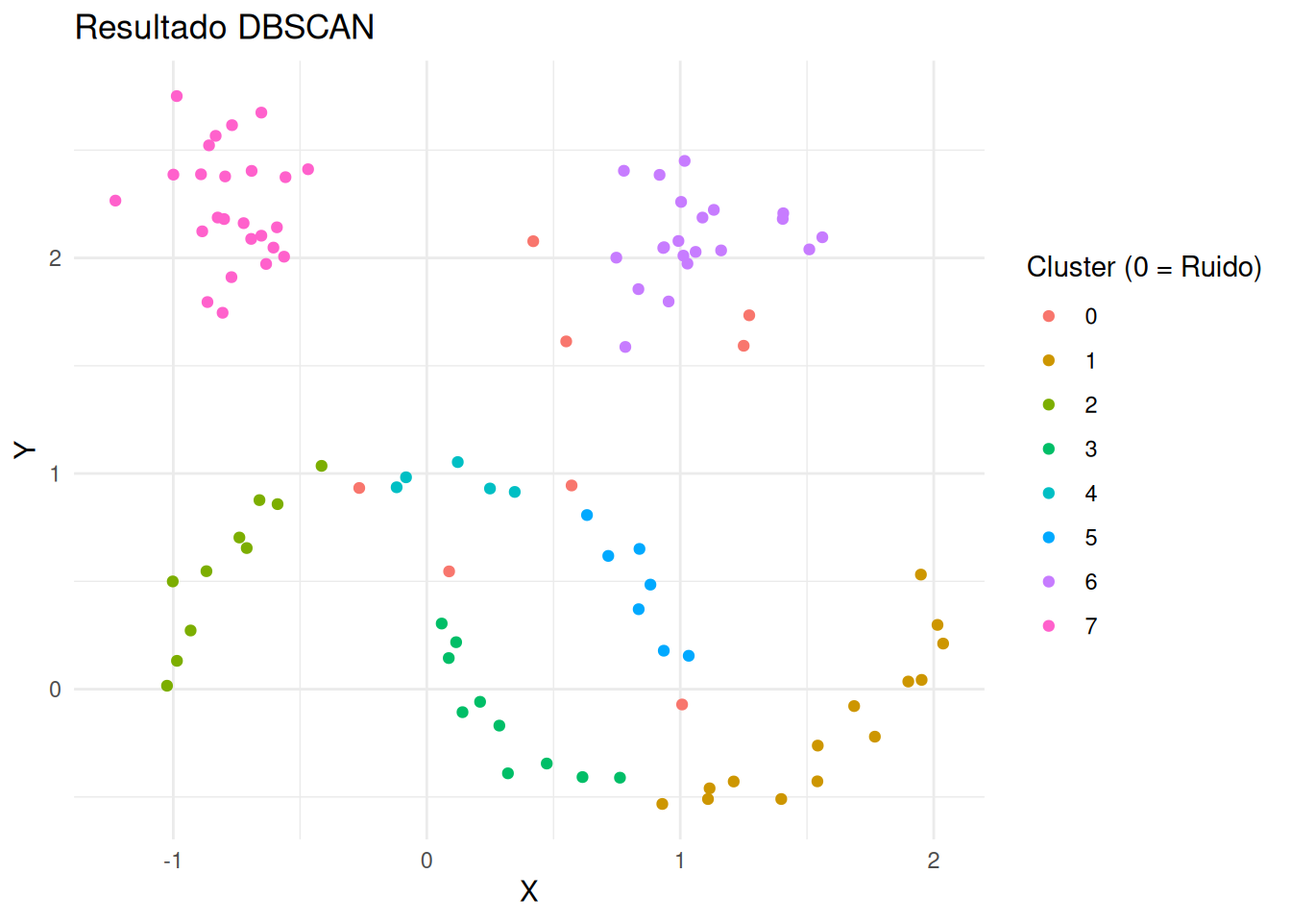
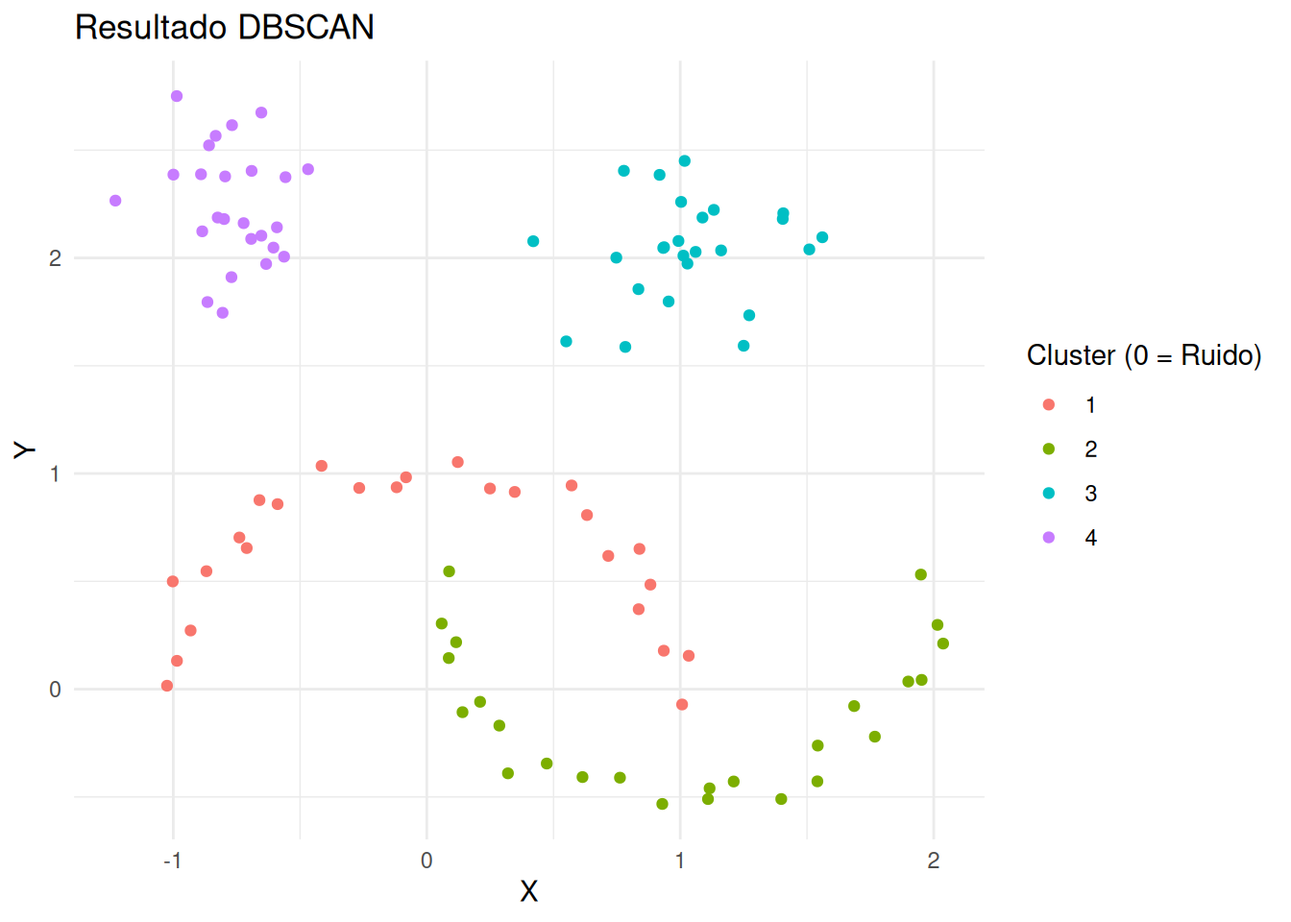
Built site for gh-pages

diff --git a/02-ml-no-supervisado.html b/02-ml-no-supervisado.html
@@ -20,6 +20,40 @@ ul.task-list li input[type="checkbox"] {
   margin: 0 0.8em 0.2em -1em; /* quarto-specific, see https://github.com/quarto-dev/quarto-cli/issues/4556 */ 
   vertical-align: middle;
 }
+/* CSS for syntax highlighting */
+pre > code.sourceCode { white-space: pre; position: relative; }
+pre > code.sourceCode > span { line-height: 1.25; }
+pre > code.sourceCode > span:empty { height: 1.2em; }
+.sourceCode { overflow: visible; }
+code.sourceCode > span { color: inherit; text-decoration: inherit; }
+div.sourceCode { margin: 1em 0; }
+pre.sourceCode { margin: 0; }
+@media screen {
+div.sourceCode { overflow: auto; }
+}
+@media print {
+pre > code.sourceCode { white-space: pre-wrap; }
+pre > code.sourceCode > span { display: inline-block; text-indent: -5em; padding-left: 5em; }
+}
+pre.numberSource code
+  { counter-reset: source-line 0; }
+pre.numberSource code > span
+  { position: relative; left: -4em; counter-increment: source-line; }
+pre.numberSource code > span > a:first-child::before
+  { content: counter(source-line);
+    position: relative; left: -1em; text-align: right; vertical-align: baseline;
+    border: none; display: inline-block;
+    -webkit-touch-callout: none; -webkit-user-select: none;
+    -khtml-user-select: none; -moz-user-select: none;
+    -ms-user-select: none; user-select: none;
+    padding: 0 4px; width: 4em;
+  }
+pre.numberSource { margin-left: 3em;  padding-left: 4px; }
+div.sourceCode
+  {   }
+@media screen {
+pre > code.sourceCode > span > a:first-child::before { text-decoration: underline; }
+}
 /* CSS for citations */
 div.csl-bib-body { }
 div.csl-entry {
@@ -402,7 +436,7 @@ Figura&nbsp;2.2: Proceso iterativo para definir los agrupamientos en el algoritm
 <p><span id="eq-k-means-obj"><span class="math display">\[
 min_{C_1,\dots,C_k} \left\{ \sum_{j=1}^k W(C_j) \right\}
 \tag{2.1}\]</span></span></p>
-<p>En otras palabras, se pretende minimizar la suma en todos los grupos de la variación registrada dentro de cada grupo. Si utilizamos la distancia Euclídea, entonces W(C_k) se convierte en la función conocida como Within-Cluster Sum of Squares (WCSS).</p>
+<p>En otras palabras, se pretende minimizar la suma en todos los grupos de la variación registrada dentro de cada grupo. Si utilizamos la distancia Euclídea, entonces W(C_k) se convierte en la función conocida como <em>Within-Cluster Sum of Squares</em> (WCSS).</p>
 <div class="callout callout-style-default callout-caution callout-titled">
 <div class="callout-header d-flex align-content-center">
 <div class="callout-icon-container">
@@ -413,7 +447,7 @@ Otras métricas de distancia en <em>k</em>-means
 </div>
 </div>
 <div class="callout-body-container callout-body">
-<p>Debemos tener mucho cuidado con la utilzación del algoritmo <em>k</em>-means si queremos emplear otras funciones métricas de distancia distintas de la distancia Euclídea (norma <span class="math inline">\(L_2\)</span>). La mayoría de paquetes y bibliotecas software <strong>asumen por defecto</strong> que se va a utilizar dicha distancia, ya que la función objetivo que se plantea en el problema de optimización que debe resolver es, precisamente, minimizar el WCSS. Como acabamos de ver arriba, este criterio *sólo es valido para la distancia Euclídea**. Existen algunas implementaciones del algoritmo con otras funciones de distancia, pero no son para nada habituales.</p>
+<p>Debemos tener mucho cuidado con la utilzación del algoritmo <em>k</em>-means si queremos emplear otras funciones métricas de distancia distintas de la distancia Euclídea (norma <span class="math inline">\(L_2\)</span>). La mayoría de paquetes y bibliotecas software <strong>asumen por defecto</strong> que se va a utilizar dicha distancia, ya que la función objetivo que se plantea en el problema de optimización que debe resolver es, precisamente, minimizar el WCSS. Como acabamos de ver arriba, este criterio <em>sólo es valido para la distancia Euclídea</em>. Existen algunas implementaciones del algoritmo con otras funciones de distancia, pero no son para nada habituales.</p>
 </div>
 </div>
 </section>
@@ -489,14 +523,92 @@ Figura&nbsp;2.5: Tres dendogramas que muestran diferentes cortes a distinto nive
 </section>
 <section id="medidas-de-evaluación-en-clustering" class="level3" data-number="2.1.3">
 <h3 data-number="2.1.3" class="anchored" data-anchor-id="medidas-de-evaluación-en-clustering"><span class="header-section-number">2.1.3</span> Medidas de evaluación en clustering</h3>
-<section id="elbow-method" class="level4" data-number="2.1.3.1">
-<h4 data-number="2.1.3.1" class="anchored" data-anchor-id="elbow-method"><span class="header-section-number">2.1.3.1</span> <strong>Elbow method</strong></h4>
+<p>La mayoría de las técnicas de evaluación de <em>clusering</em> intentan cuantificar la <strong>cohesión</strong> de los grupos (es decir, cómo de cercanos o similares son los elementos dentro del grupo), así como la <strong>separación entre grupos</strong> (es decir, cómo de lejos están los clústeres entre sí). Muchas de estas medidas se pueden aplicar a ambos tipos de algoritmos, tanto jerárquicos como no jerárquicos.</p>
+<p>El paquete <code>factoextra</code> contiene varias funciones de utilidad para evaluación de resultados de <em>clustering</em> e interpretación gráfica de dicha evaluación. En particular, la función <code>fviz_nbclust</code> permite determinar y visualizar el número óptimo de grupos, en función de varias posibles métricas. A continuación, presentamos varias métricas <em>intrínsecas</em>, que miden la calidad geométrica de una partición dada, independientemente de cómo se haya generado esa partición (ya sea de <em>k</em>-means o de un corte en un dendrograma).</p>
+<p>Preparamos unos datos para los ejemplos, escalando primero los valores de las variables para todos esten en rangos comparables</p>
+<div class="cell">
+<div class="sourceCode cell-code" id="cb1"><pre class="sourceCode r code-with-copy"><code class="sourceCode r"><span id="cb1-1"><a href="#cb1-1" aria-hidden="true" tabindex="-1"></a><span class="fu">library</span>(factoextra)</span>
+<span id="cb1-2"><a href="#cb1-2" aria-hidden="true" tabindex="-1"></a><span class="fu">library</span>(cluster)</span>
+<span id="cb1-3"><a href="#cb1-3" aria-hidden="true" tabindex="-1"></a>df <span class="ot">&lt;-</span> <span class="fu">scale</span>(USArrests)</span></code><button title="Copiar al portapapeles" class="code-copy-button"><i class="bi"></i></button></pre></div>
+</div>
+<section id="la-silueta-silhouette" class="level4" data-number="2.1.3.1">
+<h4 data-number="2.1.3.1" class="anchored" data-anchor-id="la-silueta-silhouette"><span class="header-section-number">2.1.3.1</span> La silueta (<em>silhouette</em>)</h4>
+<p>La <strong>silueta</strong> (en inglés <em>silhouette</em>) cuantifica lo bien que se ajusta cada elemento a su propio cluster, si lo comparamos con el vecino. Al calcular la silueta promedio de todas las agrupaciones de elemtnos, podemos determinar si la solución de <em>clustering</em> es buena en conjunto, siendo mejores los valores más elevados. Si comparamos la silueta promedio obtenida para diferentes valores de <code>k</code>, podemos ver de todos ellos el que obtiene el valor más elevado.</p>
+<p>La métrica de la silueta es <strong>aplicable a ambos tipos de algoritmos de clustering</strong>, tanto jerárquicos como no jerárquicos. Veamos un ejemplo con varias configuraciones del parámetro <code>k</code> usando <em>k</em>-means sobre el conjunto de datos <code>USArrests</code>.</p>
+<div class="cell">
+<div class="sourceCode cell-code" id="cb2"><pre class="sourceCode r code-with-copy"><code class="sourceCode r"><span id="cb2-1"><a href="#cb2-1" aria-hidden="true" tabindex="-1"></a><span class="fu">fviz_nbclust</span>(df, kmeans, <span class="at">method =</span> <span class="st">"silhouette"</span>)</span></code><button title="Copiar al portapapeles" class="code-copy-button"><i class="bi"></i></button></pre></div>
+<div class="cell-output-display">
+<div id="fig-example-silhouette" class="quarto-float quarto-figure quarto-figure-center anchored">
+<figure class="quarto-float quarto-float-fig figure">
+<div aria-describedby="fig-example-silhouette-caption-0ceaefa1-69ba-4598-a22c-09a6ac19f8ca">
+<img src="02-ml-no-supervisado_files/figure-html/fig-example-silhouette-1.png" class="img-fluid figure-img" width="672">
+</div>
+<figcaption class="quarto-float-caption-bottom quarto-float-caption quarto-float-fig" id="fig-example-silhouette-caption-0ceaefa1-69ba-4598-a22c-09a6ac19f8ca">
+Figura&nbsp;2.6: Comparativa de los valores de silueta promedio para varias configuraciones del parámetro <code>k</code> en clustering con <em>k</em>-means.
+</figcaption>
+</figure>
+</div>
+</div>
+</div>
+<div class="cell">
+<div class="sourceCode cell-code" id="cb3"><pre class="sourceCode r code-with-copy"><code class="sourceCode r"><span id="cb3-1"><a href="#cb3-1" aria-hidden="true" tabindex="-1"></a>kmeans_4 <span class="ot">&lt;-</span> <span class="fu">kmeans</span>(df, <span class="at">centers=</span><span class="dv">4</span>, <span class="at">nstart =</span> <span class="dv">25</span>)</span>
+<span id="cb3-2"><a href="#cb3-2" aria-hidden="true" tabindex="-1"></a>silueta <span class="ot">&lt;-</span> <span class="fu">silhouette</span>(kmeans_4<span class="sc">$</span>cluster, <span class="fu">dist</span>(df))</span>
+<span id="cb3-3"><a href="#cb3-3" aria-hidden="true" tabindex="-1"></a><span class="fu">fviz_silhouette</span>(silueta, <span class="at">palette =</span> <span class="st">"jco"</span>, <span class="at">print.summary =</span> <span class="cn">FALSE</span>)</span></code><button title="Copiar al portapapeles" class="code-copy-button"><i class="bi"></i></button></pre></div>
+<div class="cell-output-display">
+<div id="fig-vis-silhouette" class="quarto-float quarto-figure quarto-figure-center anchored">
+<figure class="quarto-float quarto-float-fig figure">
+<div aria-describedby="fig-vis-silhouette-caption-0ceaefa1-69ba-4598-a22c-09a6ac19f8ca">
+<img src="02-ml-no-supervisado_files/figure-html/fig-vis-silhouette-1.png" class="img-fluid figure-img" width="672">
+</div>
+<figcaption class="quarto-float-caption-bottom quarto-float-caption quarto-float-fig" id="fig-vis-silhouette-caption-0ceaefa1-69ba-4598-a22c-09a6ac19f8ca">
+Figura&nbsp;2.7: Visualización de los valores de silueta para cada elemento agrupado. Los valores negativos (barras en sentido descendente) indican puntos mal agrupados.
+</figcaption>
+</figure>
+</div>
+</div>
+</div>
+<p>En la sección <a href="08-apps.html#sec-pam-case-study" class="quarto-xref"><span>Sección 8.1.2</span></a> veremos un ejemplo práctico con código para inspeccionar los valores reportados por la silueta como mal clasificados. La línea roja en el gráfico marca el valor promedio de silueta de todos el conjunto de agrupamientos.</p>
 </section>
-<section id="la-silueta-silhouette" class="level4" data-number="2.1.3.2">
-<h4 data-number="2.1.3.2" class="anchored" data-anchor-id="la-silueta-silhouette"><span class="header-section-number">2.1.3.2</span> La silueta (<em>silhouette</em>)</h4>
+<section id="elbow-method" class="level4" data-number="2.1.3.2">
+<h4 data-number="2.1.3.2" class="anchored" data-anchor-id="elbow-method"><span class="header-section-number">2.1.3.2</span> <em>Elbow method</em></h4>
+<p>Se trata de un método directo para evaluar cuál podría ser el número de grupos <span class="math inline">\(k\)</span> más adecuado para el problema de agrupamiento a resolver. En el caso de algoritmos partitivos, este valor es un parámetro de configuración que se fija al inicio del problema, por lo que podemos probar con varias opciones y comparar los resultados para la función de coste que determina el resultado. Sólo se suele usar con este tipo de algoritmos, ya que para los jerárquicos se prefieren otros métodos de evaluación.</p>
+<p>En la <a href="#fig-example-elbow" class="quarto-xref">Figura&nbsp;<span>2.8</span></a> vemos un ejemplo comparando diferentes valores de la métrica <em>WCSS</em> para varias configuraciones del parámetro <code>k</code> usando <em>k</em>-means sobre el conjunto de datos <code>USArrests</code>.</p>
+<div class="cell">
+<div class="sourceCode cell-code" id="cb4"><pre class="sourceCode r code-with-copy"><code class="sourceCode r"><span id="cb4-1"><a href="#cb4-1" aria-hidden="true" tabindex="-1"></a><span class="fu">fviz_nbclust</span>(df, kmeans, <span class="at">method =</span> <span class="st">"wss"</span>) <span class="sc">+</span></span>
+<span id="cb4-2"><a href="#cb4-2" aria-hidden="true" tabindex="-1"></a>   <span class="fu">geom_vline</span>(<span class="at">xintercept =</span> <span class="dv">4</span>, <span class="at">linetype =</span> <span class="dv">2</span>)</span></code><button title="Copiar al portapapeles" class="code-copy-button"><i class="bi"></i></button></pre></div>
+<div class="cell-output-display">
+<div id="fig-example-elbow" class="quarto-float quarto-figure quarto-figure-center anchored">
+<figure class="quarto-float quarto-float-fig figure">
+<div aria-describedby="fig-example-elbow-caption-0ceaefa1-69ba-4598-a22c-09a6ac19f8ca">
+<img src="02-ml-no-supervisado_files/figure-html/fig-example-elbow-1.png" class="img-fluid figure-img" width="672">
+</div>
+<figcaption class="quarto-float-caption-bottom quarto-float-caption quarto-float-fig" id="fig-example-elbow-caption-0ceaefa1-69ba-4598-a22c-09a6ac19f8ca">
+Figura&nbsp;2.8: Ejemplo de un gráfico que compara los resultados del WCSS para varios valores del parámetro de configuración <code>k</code> en <em>k</em>-means.
+</figcaption>
+</figure>
+</div>
+</div>
+</div>
 </section>
 <section id="la-brecha-gap" class="level4" data-number="2.1.3.3">
 <h4 data-number="2.1.3.3" class="anchored" data-anchor-id="la-brecha-gap"><span class="header-section-number">2.1.3.3</span> La brecha (<em>gap</em>)</h4>
+<p>Esta métrica compara la WCSS observada con la esperada de un conjunto de datos generados sintéticamente de forma aleatoria. En este caso, también se utiliza con algoritmos partitivos (y para distancia Euclídea). El mejor valor de <code>k</code> es el que maximiza la métrica de <em>gap</em>.</p>
+<div class="cell">
+<div class="sourceCode cell-code" id="cb5"><pre class="sourceCode r code-with-copy"><code class="sourceCode r"><span id="cb5-1"><a href="#cb5-1" aria-hidden="true" tabindex="-1"></a><span class="fu">fviz_nbclust</span>(df, kmeans, <span class="at">method =</span> <span class="st">"gap"</span>) <span class="sc">+</span></span>
+<span id="cb5-2"><a href="#cb5-2" aria-hidden="true" tabindex="-1"></a>   <span class="fu">geom_vline</span>(<span class="at">xintercept =</span> <span class="dv">4</span>, <span class="at">linetype =</span> <span class="dv">2</span>)</span></code><button title="Copiar al portapapeles" class="code-copy-button"><i class="bi"></i></button></pre></div>
+<div class="cell-output-display">
+<div id="fig-example-gap" class="quarto-float quarto-figure quarto-figure-center anchored">
+<figure class="quarto-float quarto-float-fig figure">
+<div aria-describedby="fig-example-gap-caption-0ceaefa1-69ba-4598-a22c-09a6ac19f8ca">
+<img src="02-ml-no-supervisado_files/figure-html/fig-example-gap-1.png" class="img-fluid figure-img" width="672">
+</div>
+<figcaption class="quarto-float-caption-bottom quarto-float-caption quarto-float-fig" id="fig-example-gap-caption-0ceaefa1-69ba-4598-a22c-09a6ac19f8ca">
+Figura&nbsp;2.9: Ejemplo de un gráfico comparativo de los valores de <em>gap</em> obtenidos para diferentes valores del parámetro de configuración <code>k</code> con el algoritmo <em>k</em>-means.
+</figcaption>
+</figure>
+</div>
+</div>
+</div>
 </section>
 </section>
 </section>
@@ -504,9 +616,51 @@ Figura&nbsp;2.5: Tres dendogramas que muestran diferentes cortes a distinto nive
 <h2 data-number="2.2" class="anchored" data-anchor-id="reducción-de-la-dimensionalidad"><span class="header-section-number">2.2</span> Reducción de la dimensionalidad</h2>
 <section id="análisis-de-componentes-principales-pca" class="level3" data-number="2.2.1">
 <h3 data-number="2.2.1" class="anchored" data-anchor-id="análisis-de-componentes-principales-pca"><span class="header-section-number">2.2.1</span> Análisis de componentes principales (PCA)</h3>
+<p>El Análisis de Componentes Principales (PCA por sus siglas en inglés) se refiere al proceso por el cuál computamos las <strong>componentes principales</strong> del espacio de representación de nuestros datos y su posterior utilización para comprender mejor los patrones e información que contiene el <em>dataset</em>. Las <em>componentes principales</em> son las direcciones en el espacio de descripción de los datos a lo largo de las cuales los elementos del dataset tienen <em>alta variabilidad</em>.</p>
+<p>Se trata de una técnica de aprendizaje máquina no supervisado, puesto que sólo involucra un conjunto de variables descriptivas de los datos, <span class="math inline">\(\{x_1, x_2,\dots, x_d \}\)</span>, y ninguna variable de salida <span class="citation" data-cites="james2021">(<a href="references.html#ref-james2021" role="doc-biblioref">James, 2021</a>)</span>. Además de para el análisis, se puede usar como herramienta de visualización (permitiendo representar los elementos en un espacio bidimensional o, al menos, de menos dimensiones que el original), así como también para imputación de datos <span class="citation" data-cites="james2021">(<a href="references.html#ref-james2021" role="doc-biblioref">James, 2021</a>)</span>.</p>
+<p>La idea intuitiva detrás del PCA es que, si bien los datos están originalmente representados en un espacio con <span class="math inline">\(d\)</span> dimensiones, no todas ellas contribuyen de igual forma a la descripción de los datos. En otras palabras, no todas ellas son <em>“interesantes”</em>, donde la medida de interés radica en cuánto varían las observaciones a lo largo de cada dimensión. Cada una de las direcciones o <em>componentes</em> principales halladas mediante el PCA es una combinación lineal de las <span class="math inline">\(d\)</span> características descriptivas, cada una de ellas contribuyendo con un cierto peso (<em>loading</em>). Así, la primera componente principal viene dada por la combinación lineal normalizada de las variables que tiene la variabilidad más alta:</p>
+<p><span id="eq-pca-z1"><span class="math display">\[
+Z_1 = \phi_{11}X_1 + \phi_{21}X_2+\dots+\phi_{d1}X_d
+\tag{2.2}\]</span></span></p>
+<p>Que sea normalizada implica que <span class="math inline">\(\sum_{j=1}^p \phi_{j1}^2 = 1\)</span>. Los pesos o <em>loadings</em> son, precisamente, el conjunto de coeficientes <span class="math inline">\(\phi_{11}, \phi_{21},\dots,\phi_{d1}\)</span>. Numéricamente, el cálculo de los pesos se resuelve mediante técnicas de optimización <span class="citation" data-cites="james2021">(<a href="references.html#ref-james2021" role="doc-biblioref">James, 2021</a>)</span>. Después, se repite el proceso para obtener la segunda componente principal, que será la que recoja la mayor variabilidad de todas las combinaciones lineales que <strong>estén incorreladas</strong> con <span class="math inline">\(Z_1\)</span>. Así, cada componente principal debe ser <em>ortogonal</em> a todas las anteriores (esto es consecuencia de que todas estén incorreladas entre sí).</p>
+<p>La <a href="#fig-pca2comp-usarrests" class="quarto-xref">Figura&nbsp;<span>2.10</span></a> muestra las dos primeras componentes principales calculadas sobre el dataset <code>USArrests</code>. En la <a href="06-reduccion-dim.html#sec-pca-usarrests" class="quarto-xref"><span>Sección 6.1</span></a> veremos un ejemplo práctico, con codigo en R, de cómo calcular un PCA sobre este conjunto de datos.</p>
+<div id="fig-pca2comp-usarrests" class="quarto-float quarto-figure quarto-figure-center anchored">
+<figure class="quarto-float quarto-float-fig figure">
+<div aria-describedby="fig-pca2comp-usarrests-caption-0ceaefa1-69ba-4598-a22c-09a6ac19f8ca">
+<img src="img/PCA-2comp-USArrests.png" class="img-fluid figure-img" style="width:95.0%">
+</div>
+<figcaption class="quarto-float-caption-bottom quarto-float-caption quarto-float-fig" id="fig-pca2comp-usarrests-caption-0ceaefa1-69ba-4598-a22c-09a6ac19f8ca">
+Figura&nbsp;2.10: Representación gráfica de las dos primeras componentes principales calculadas sobre el conjunto de datos <code>USArrests</code>. Fuente: Figura 12.1 de <span class="citation" data-cites="james2021">(<a href="references.html#ref-james2021" role="doc-biblioref">James, 2021</a>)</span>.
+</figcaption>
+</figure>
+</div>
 </section>
 <section id="t-distributed-stochastic-neighbor-embedding-t-sne" class="level3" data-number="2.2.2">
 <h3 data-number="2.2.2" class="anchored" data-anchor-id="t-distributed-stochastic-neighbor-embedding-t-sne"><span class="header-section-number">2.2.2</span> t-distributed Stochastic Neighbor Embedding (t-SNE)</h3>
+<p>El algoritmo t-SNE (<em>t-Distributed Stochastic Neighbor Embedding</em>) es una técnica de <strong>reducción de dimensionalidad no lineal</strong> muy popular, utilizada principalmente para la visualización de conjuntos de datos de alta dimensión en un espacio de representación en 2D o 3D. Su objetivo principal es preservar la estructura local de los datos.</p>
+<p>Sus principales características son:</p>
+<ul>
+<li><p>Estrategia para preservar la estructura local de los datos: t-SNE se centra en preservar las distancias pequeñas (puntos cercanos en el espacio original) en el espacio de baja dimensión. Esto significa que los puntos que estaban cerca en el <em>dataset</em> original deben seguir estando cerca en la gráfica 2D.</p></li>
+<li><p>Distribuciones de probabilidad: el algoritmo convierte las distancias Euclídeas en el espacio de alta dimensión en probabilidades condicionales que representan la similitud.</p>
+<ul>
+<li><p>En el espacio original (alta dimensión), usa una distribución Gaussiana para medir la similitud.</p></li>
+<li><p>En el espacio de destino (baja dimensión), usa la distribución t-Student (con un grado de libertad, de ahí la “t” en el nombre), que tiene colas más pesadas en sus extremos. Esto mitiga el problema del <em>crowding</em> (agolpamiento de puntos).</p></li>
+</ul></li>
+<li><p>Técnica no lineal: a diferencia del PCA (que solo encuentra proyecciones lineales), t-SNE puede capturar relaciones complejas y no lineales en los datos.</p></li>
+<li><p>Uso de un parámetro de <strong>perplejidad</strong> (<em>perplexity</em>): Este es el hiperparámetro más crítico que hay que configurar para que funcione el algoritmo. Se puede interpretar como una medida del número efectivo de vecinos que t-SNE considera al agrupar cada punto.</p>
+<ul>
+<li><p>Controla el equilibrio entre el enfoque local y global.</p></li>
+<li><p>Un valor de perplejidad incorrecto puede generar visualizaciones engañosas.</p></li>
+</ul></li>
+</ul>
+<p>t-SNE es una técnica sobresaliente para generar visualizaciones donde los clústeres naturales de los datos se separan visualmente en la gráfica 2D. Como hemos visto, puede capturar relaciones no lineales en los datos, superando a PCA en ese aspecto (está restringido a relaciones lineales). Además, al emplear la distribución t-Student en el espacio de menor dimensionalidad, favorece que los agrupamientos estén más separados entre sí y aclara el aspecto del gráfico. Por último, la interpretación visual que ofrece es muy directa: si los puntos están cercanos entre sí son similares, si están lejos entre sí son más diferentes.</p>
+<p>Sin embargo, su aplicación trae consigo varias limitaciones:</p>
+<ul>
+<li>En conjuntos de datos muy grandes (<span class="math inline">\(n &gt; 10K\)</span>) requiere gran cantidad de memoria, ya que su complejidad es <span class="math inline">\(O(N^2)\)</span>.</li>
+<li>El resultado gráfico obtenido es muy sensible al valor del parámetro <em>perplexity</em>. Pequeñas alteraciones en su valor se traducen en cambios importantes en el aspecto del gráfico.</li>
+<li>La distancia entre agrupamientos no es directamente interpretable. Es decir, si dos agrupamientos están cercanos entre sí, significa que son similares, pero no sabes con certeza <em>cuánto de similares</em> son en el espacio transformado.</li>
+<li>No proporciona un mapeo determinista. No se puede generar una visualización para un conjunto de datos y posteriormente añadir nuevos puntos a la misma gráfica. Se debe calcular para todo el conjunto a la vez.</li>
+</ul>
 </section>
 <section id="uniform-manifold-approximation-and-projection-umap" class="level3" data-number="2.2.3">
 <h3 data-number="2.2.3" class="anchored" data-anchor-id="uniform-manifold-approximation-and-projection-umap"><span class="header-section-number">2.2.3</span> Uniform Manifold Approximation and Projection (UMAP)</h3>

diff --git a/01-introduccion.html b/01-introduccion.html
@@ -392,7 +392,7 @@ window.Quarto = {
 <p><span id="eq-mink-dist"><span class="math display">\[
 d_{Mink}(A,B) = \left( \sum_{j=1}^d |x_{Aj}-x_{Bj}|^p \right)^{1/p},
 \tag{1.1}\]</span></span></p>
-<p>siendo <span class="math inline">\(\|A\|_p = \left( \sum_{j=1}^d |x_{Aj}|^p \right)^{1/p}\)</span> la <em>norma</em> <span class="math inline">\(p* (denotada muchas veces como\)</span>L_p$) del vector A. Así, para <span class="math inline">\(p=1\)</span> tenemos la <em>distancia Manhattan</em> (<span class="math inline">\(L_1\)</span>), mientras que para <span class="math inline">\(p=2\)</span> tenemos la popular <em>distancia Euclídea</em> (<span class="math inline">\(L_2\)</span>).</p>
+<p>siendo <span class="math inline">\(\|A\|_p = \left( \sum_{j=1}^d |x_{Aj}|^p \right)^{1/p}\)</span> la <em>norma</em> <span class="math inline">\(p\)</span>* (denotada muchas veces como <span class="math inline">\(L_p\)</span>) del vector A. Así, para <span class="math inline">\(p=1\)</span> tenemos la <em>distancia Manhattan</em> (<span class="math inline">\(L_1\)</span>), mientras que para <span class="math inline">\(p=2\)</span> tenemos la popular <em>distancia Euclídea</em> (<span class="math inline">\(L_2\)</span>).</p>
 <p>Se denomina <strong>matriz de distancias</strong> a una matriz <span class="math inline">\(D=(d_{E_{i}E_{j}});\, i,j=1,\dots,n\)</span> que contiene todas las distancias entre cada par de elementos <span class="math inline">\((E_i,E_j)\)</span> de <span class="math inline">\(\mathcal{X}\)</span>. Siempre que la función de distancia utilizada cumpla la propiedad de <em>simetría</em>, esta matriz será <em>triangular</em>.</p>
 <div class="callout callout-style-default callout-note callout-titled">
 <div class="callout-header d-flex align-content-center">
@@ -465,7 +465,7 @@ Tabla&nbsp;1.1: Algunas funciones de distancia muy frecuentes.
 </div>
 </figure>
 </div>
-<p>(*): Se puede efectuar una trasnformación a una distancia “comparable” que sí cumple las propiedades de métrica.</p>
+<p>(*): Se puede efectuar una transformación a una distancia “comparable” que sí cumple las propiedades de métrica.</p>
 </section>
 <section id="tipos-de-clustering" class="level4" data-number="1.2.1.2">
 <h4 data-number="1.2.1.2" class="anchored" data-anchor-id="tipos-de-clustering"><span class="header-section-number">1.2.1.2</span> Tipos de clustering</h4>
@@ -522,7 +522,7 @@ Figura&nbsp;1.4: Ejemplos de algunos de los dígitos manuscritos incluidos en el
 </figcaption>
 </figure>
 </div>
-<p>Sería muy complicado conseguir la representación gráfica de todos estos elementos para detectar las imágenes de dígitos que son parecidas entre sí (por ejemplo, un grupo con los números <code>4</code>, otro con los números <code>8</code>, etc.). Las técnicas de reducción de dimensionalidad nos permiten proyectar la representación original de estos datos en un espacio <span class="math inline">\(\mathbb{R}^784\)</span> sobre un espacio <span class="math inline">\(\mathbb{R}^2\)</span>, que sí podemos representar gráficamente.</p>
+<p>Sería muy complicado conseguir la representación gráfica de todos estos elementos para detectar las imágenes de dígitos que son parecidas entre sí (por ejemplo, un grupo con los números <code>4</code>, otro con los números <code>8</code>, etc.). Las técnicas de reducción de dimensionalidad nos permiten proyectar la representación original de estos datos en un espacio <span class="math inline">\(\mathbb{R}^{784}\)</span> sobre un espacio <span class="math inline">\(\mathbb{R}^2\)</span>, que sí podemos representar gráficamente.</p>
 <p>Por ejemplo, la <a href="#fig-mnist-tsne" class="quarto-xref">Figura&nbsp;<span>1.5</span></a> muestra una representación gráfica en 2D de una muestra aleatoria de elementos de MNIST, en la que previamente se han reducido las 784 dimensiones originales a 2 mediante el algoritmo t-SNE <span class="citation" data-cites="maaten2008visualizing">(<a href="references.html#ref-maaten2008visualizing" role="doc-biblioref">Maaten &amp; Hinton, 2008</a>)</span>.</p>
 <div id="fig-mnist-tsne" class="quarto-float quarto-figure quarto-figure-center anchored">
 <figure class="quarto-float quarto-float-fig figure">

diff --git a/04-clust-jer.html b/04-clust-jer.html
@@ -518,13 +518,15 @@ Adjuntando el paquete: 'dbscan'</code></pre>
 <span id="cb18-6"><a href="#cb18-6" aria-hidden="true" tabindex="-1"></a><span class="co"># Ejecución del algoritmo</span></span>
 <span id="cb18-7"><a href="#cb18-7" aria-hidden="true" tabindex="-1"></a><span class="co"># eps: radio de búsqueda</span></span>
 <span id="cb18-8"><a href="#cb18-8" aria-hidden="true" tabindex="-1"></a><span class="co"># minPts: puntos mínimos para considerar núcleo</span></span>
-<span id="cb18-9"><a href="#cb18-9" aria-hidden="true" tabindex="-1"></a>res <span class="ot">&lt;-</span> <span class="fu">dbscan</span>(moons, <span class="at">eps =</span> <span class="fl">0.3</span>, <span class="at">minPts =</span> <span class="dv">5</span>)</span>
-<span id="cb18-10"><a href="#cb18-10" aria-hidden="true" tabindex="-1"></a></span>
-<span id="cb18-11"><a href="#cb18-11" aria-hidden="true" tabindex="-1"></a><span class="co"># Visualización</span></span>
-<span id="cb18-12"><a href="#cb18-12" aria-hidden="true" tabindex="-1"></a><span class="fu">ggplot</span>(moons, <span class="fu">aes</span>(X, Y, <span class="at">color =</span> <span class="fu">factor</span>(res<span class="sc">$</span>cluster))) <span class="sc">+</span></span>
-<span id="cb18-13"><a href="#cb18-13" aria-hidden="true" tabindex="-1"></a>  <span class="fu">geom_point</span>() <span class="sc">+</span></span>
-<span id="cb18-14"><a href="#cb18-14" aria-hidden="true" tabindex="-1"></a>  <span class="fu">labs</span>(<span class="at">title =</span> <span class="st">"Resultado DBSCAN"</span>, <span class="at">color =</span> <span class="st">"Cluster (0 = Ruido)"</span>) <span class="sc">+</span></span>
-<span id="cb18-15"><a href="#cb18-15" aria-hidden="true" tabindex="-1"></a>  <span class="fu">theme_minimal</span>()</span></code><button title="Copiar al portapapeles" class="code-copy-button"><i class="bi"></i></button></pre></div>
+<span id="cb18-9"><a href="#cb18-9" aria-hidden="true" tabindex="-1"></a><span class="co"># Jugar con el valor de eps para comparar resultados</span></span>
+<span id="cb18-10"><a href="#cb18-10" aria-hidden="true" tabindex="-1"></a><span class="co"># El valor óptimo es eps = 0.4, para que no haya puntos de ruido</span></span>
+<span id="cb18-11"><a href="#cb18-11" aria-hidden="true" tabindex="-1"></a>res <span class="ot">&lt;-</span> <span class="fu">dbscan</span>(moons, <span class="at">eps =</span> <span class="fl">0.4</span>, <span class="at">minPts =</span> <span class="dv">5</span>) </span>
+<span id="cb18-12"><a href="#cb18-12" aria-hidden="true" tabindex="-1"></a></span>
+<span id="cb18-13"><a href="#cb18-13" aria-hidden="true" tabindex="-1"></a><span class="co"># Visualización</span></span>
+<span id="cb18-14"><a href="#cb18-14" aria-hidden="true" tabindex="-1"></a><span class="fu">ggplot</span>(moons, <span class="fu">aes</span>(X, Y, <span class="at">color =</span> <span class="fu">factor</span>(res<span class="sc">$</span>cluster))) <span class="sc">+</span></span>
+<span id="cb18-15"><a href="#cb18-15" aria-hidden="true" tabindex="-1"></a>  <span class="fu">geom_point</span>() <span class="sc">+</span></span>
+<span id="cb18-16"><a href="#cb18-16" aria-hidden="true" tabindex="-1"></a>  <span class="fu">labs</span>(<span class="at">title =</span> <span class="st">"Resultado DBSCAN"</span>, <span class="at">color =</span> <span class="st">"Cluster (0 = Ruido)"</span>) <span class="sc">+</span></span>
+<span id="cb18-17"><a href="#cb18-17" aria-hidden="true" tabindex="-1"></a>  <span class="fu">theme_minimal</span>()</span></code><button title="Copiar al portapapeles" class="code-copy-button"><i class="bi"></i></button></pre></div>
 <div class="cell-output-display">
 <div>
 <figure class="figure">

diff --git a/08-apps.html b/08-apps.html
@@ -322,7 +322,7 @@ window.Quarto = {
   <li><a href="#segmentación-de-clientes-de-un-centro-comercial" id="toc-segmentación-de-clientes-de-un-centro-comercial" class="nav-link active" data-scroll-target="#segmentación-de-clientes-de-un-centro-comercial"><span class="header-section-number">8.1</span> Segmentación de clientes de un centro comercial</a>
   <ul class="collapse">
   <li><a href="#resolución-con-k-means" id="toc-resolución-con-k-means" class="nav-link" data-scroll-target="#resolución-con-k-means"><span class="header-section-number">8.1.1</span> Resolución con <em>k</em>-means</a></li>
-  <li><a href="#resolución-con-pam-k-medoids" id="toc-resolución-con-pam-k-medoids" class="nav-link" data-scroll-target="#resolución-con-pam-k-medoids"><span class="header-section-number">8.1.2</span> Resolución con PAM (<em>k</em>-medoids)</a></li>
+  <li><a href="#sec-pam-case-study" id="toc-sec-pam-case-study" class="nav-link" data-scroll-target="#sec-pam-case-study"><span class="header-section-number">8.1.2</span> Resolución con PAM (<em>k</em>-medoids)</a></li>
   </ul></li>
   <li><a href="#ejemplo-de-reducc.-dim." id="toc-ejemplo-de-reducc.-dim." class="nav-link" data-scroll-target="#ejemplo-de-reducc.-dim."><span class="header-section-number">8.2</span> Ejemplo de reducc. dim.</a></li>
   </ul>
@@ -572,8 +572,8 @@ Figura&nbsp;8.2
 <li><em>Promedio</em>: ingresos medios y gasto medio.</li>
 </ol>
 </section>
-<section id="resolución-con-pam-k-medoids" class="level3" data-number="8.1.2">
-<h3 data-number="8.1.2" class="anchored" data-anchor-id="resolución-con-pam-k-medoids"><span class="header-section-number">8.1.2</span> Resolución con PAM (<em>k</em>-medoids)</h3>
+<section id="sec-pam-case-study" class="level3" data-number="8.1.2">
+<h3 data-number="8.1.2" class="anchored" data-anchor-id="sec-pam-case-study"><span class="header-section-number">8.1.2</span> Resolución con PAM (<em>k</em>-medoids)</h3>
 <div class="cell">
 <div class="sourceCode cell-code" id="cb17"><pre class="sourceCode r code-with-copy"><code class="sourceCode r"><span id="cb17-1"><a href="#cb17-1" aria-hidden="true" tabindex="-1"></a><span class="co"># 1. Cargar y limpiar datos</span></span>
 <span id="cb17-2"><a href="#cb17-2" aria-hidden="true" tabindex="-1"></a>datos <span class="ot">&lt;-</span> <span class="fu">read_csv</span>(<span class="st">"data/mallcustomers.csv"</span>)</span></code><button title="Copiar al portapapeles" class="code-copy-button"><i class="bi"></i></button></pre></div>
@@ -689,7 +689,7 @@ Figura&nbsp;8.3
 <div class="cell-output-display">
 <div>
 <figure class="figure">
-<p><img src="08-apps_files/figure-html/unnamed-chunk-5-1.png" class="img-fluid figure-img" width="672"></p>
+<p><img src="08-apps_files/figure-html/pam-silhouette-viz-1.png" class="img-fluid figure-img" width="672"></p>
 </figure>
 </div>
 </div>

diff --git a/06-reduccion-dim.html b/06-reduccion-dim.html
@@ -310,7 +310,7 @@ div.csl-indent {
     <h2 id="toc-title">Tabla de contenidos</h2>
    
   <ul>
-  <li><a href="#pca" id="toc-pca" class="nav-link active" data-scroll-target="#pca"><span class="header-section-number">6.1</span> PCA</a>
+  <li><a href="#sec-pca-usarrests" id="toc-sec-pca-usarrests" class="nav-link active" data-scroll-target="#sec-pca-usarrests"><span class="header-section-number">6.1</span> PCA</a>
   <ul class="collapse">
   <li><a href="#t-sne" id="toc-t-sne" class="nav-link" data-scroll-target="#t-sne"><span class="header-section-number">6.1.1</span> t-SNE</a></li>
   <li><a href="#umap" id="toc-umap" class="nav-link" data-scroll-target="#umap"><span class="header-section-number">6.1.2</span> UMAP</a></li>
@@ -341,8 +341,8 @@ div.csl-indent {
 
 
 <p>Ejemplos de algoritmos de cada clase.</p>
-<section id="pca" class="level2" data-number="6.1">
-<h2 data-number="6.1" class="anchored" data-anchor-id="pca"><span class="header-section-number">6.1</span> PCA</h2>
+<section id="sec-pca-usarrests" class="level2" data-number="6.1">
+<h2 data-number="6.1" class="anchored" data-anchor-id="sec-pca-usarrests"><span class="header-section-number">6.1</span> PCA</h2>
 <p>Utilizaremos el dataset estándar <code>USArrests</code> que proporciona R. Seguiremos el ejemplo del laboratorio del Capítulo 12 de <span class="citation" data-cites="james2021">(<a href="references.html#ref-james2021" role="doc-biblioref">James, 2021</a>)</span> (Sec. 12.5.1).</p>
 <div class="cell">
 <div class="sourceCode cell-code" id="cb1"><pre class="sourceCode r code-with-copy"><code class="sourceCode r"><span id="cb1-1"><a href="#cb1-1" aria-hidden="true" tabindex="-1"></a><span class="do">## Principal Components Analysis</span></span>
@@ -553,7 +553,7 @@ Iteration 850: error is 0.240463 (50 iterations in 0.00 seconds)
 Iteration 900: error is 0.234624 (50 iterations in 0.00 seconds)
 Iteration 950: error is 0.230820 (50 iterations in 0.00 seconds)
 Iteration 1000: error is 0.237176 (50 iterations in 0.00 seconds)
-Fitting performed in 0.06 seconds.</code></pre>
+Fitting performed in 0.05 seconds.</code></pre>
 </div>
 <div class="sourceCode cell-code" id="cb30"><pre class="sourceCode r code-with-copy"><code class="sourceCode r"><span id="cb30-1"><a href="#cb30-1" aria-hidden="true" tabindex="-1"></a><span class="co"># Etraemos las coordenadas generadas para repres. gráfica</span></span>
 <span id="cb30-2"><a href="#cb30-2" aria-hidden="true" tabindex="-1"></a>tsne_plot_data <span class="ot">&lt;-</span> <span class="fu">data.frame</span>(</span>

diff --git a/03-clust-part.html b/03-clust-part.html
@@ -766,7 +766,7 @@ Ejercicios adicionales
 <li>Los prototipos de cada grupo no son <em>centroides</em> (puntos ficticios o sintéticos) sino <em>medoides, es decir, elementos </em>reales* del dataset. Esto facilita mucho la interpretación de los resultados, puesto que se puede analizar las características de cada elemento prototipo para concluir cuáles son los principales rasgos de los elementos de ese grupo.</li>
 <li>Mientras que en muchas implementaciones de <em>k</em>-means, se asume que vamos a emplear la función de distancia Euclídea y que se busca minimizar la WCSS para resolver el problema, en las implementaciones de <em>k</em>-medoids se pueden utilizar <strong>funciones de distancia arbitrarias</strong> para comparar y agrupar los elementos.</li>
 </ul>
-<p>También existen implementaciones con rendimiento mejorado de este algoritmo. Por ejemplo, el paquete <a href="https://cran.r-project.org/web/packages/fastkmedoids/refman/fastkmedoids.html"><code>fastkmedoids</code> en R</a> proporciona <em>wrappers</em> para las implementaciones en C++ de varios algoritmos más rápidos para resolver el problema PAM (FastPAM, FastCLARA Y FastCLARANS) <span class="citation" data-cites="schubert2019fastPAM">(<a href="references.html#ref-schubert2019fastPAM" role="doc-biblioref">Schubert &amp; Rousseeuw, 2019</a>)</span>.</p>
+<p>También existen implementaciones con rendimiento mejorado de este algoritmo. Por ejemplo, el paquete <a href="https://cran.r-project.org/web/packages/fastkmedoids/refman/fastkmedoids.html"><code>fastkmedoids</code> en R</a> proporciona <em>wrappers</em> para las implementaciones en C++ de varios algoritmos más rápidos para resolver el problema PAM (FastPAM, FastCLARA y FastCLARANS) <span class="citation" data-cites="schubert2019fastPAM">(<a href="references.html#ref-schubert2019fastPAM" role="doc-biblioref">Schubert &amp; Rousseeuw, 2019</a>)</span>.</p>
 <section id="ejemplo-de-implementación-en-r" class="level3" data-number="3.2.1">
 <h3 data-number="3.2.1" class="anchored" data-anchor-id="ejemplo-de-implementación-en-r"><span class="header-section-number">3.2.1</span> Ejemplo de implementación en R</h3>
 <div class="cell">
